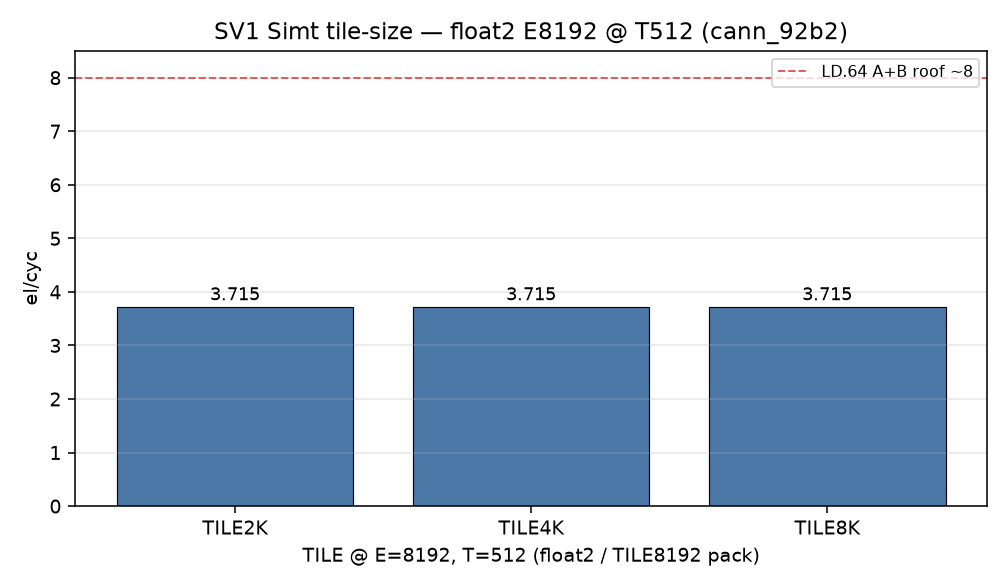
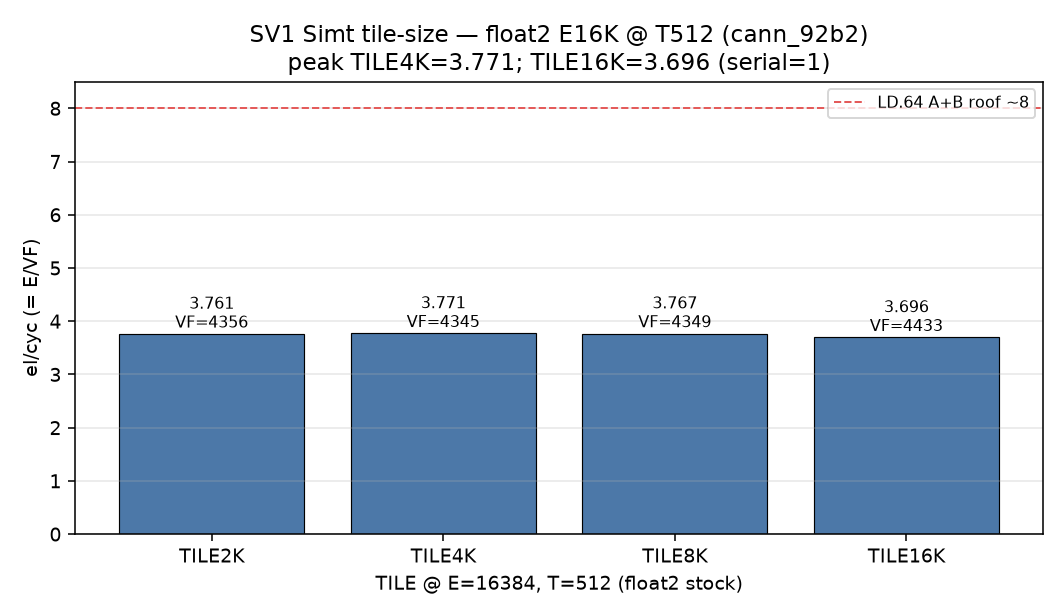
docs(sv1): §5.1 E16K float2 TILE ladder (distinct VF); diagnose E8192 flat
Lok: E must be 16K for tile cases; prior E8192 TILE@T512 flat 3.715 was
compiler unroll of serial tiles (not wrong launch). Promote E16K arms
(peak TILE4K=3.771 VF=4345); keep §5.2 TILE8192 T-dim; regen tile plot + MRF.

Changed region(s): [[0.0, 0.0306, 0.9841, 0.9796]]

diff --git a/benches/sv1/ANALYSIS.md b/benches/sv1/ANALYSIS.md
@@ -1,6 +1,6 @@
 # SV1 analysis — short-live stream eltwise (Simt + SIMD)
 
-**Date:** 2026-10-20 HKT · SoftLib fence×source / rooftop rewrite **2026-10-20** · float2 §5 fold **2026-10-20** · TILE8192 + TILE@T512 + real-asm MRF **2026-10-20** · **SOC:** Ascend950PR_9599 opsim · **CANN / PTOAS:** cann_92b2 / PTOAS nightly (`config.toml` pins) · **Primary stock Simt:** E=8192 **TILE8192** float2 (`max_vector_bits=64`, LDS.64-class; TILE=E) · multi-TILE @ T512 flat **3.715** · **Aligned e700041f E16K TILE matrix:** appendix-only
+**Date:** 2026-10-20 HKT · SoftLib fence×source / rooftop rewrite **2026-10-20** · float2 §5 fold **2026-10-20** · TILE8192 + TILE@T512 + real-asm MRF **2026-10-20** · **SOC:** Ascend950PR_9599 opsim · **CANN / PTOAS:** cann_92b2 / PTOAS nightly (`config.toml` pins) · **Primary stock Simt:** E=8192 **TILE8192** float2 (`max_vector_bits=64`, LDS.64-class; TILE=E) · §5.1 multi-TILE **E=16K** @ T512 (peak TILE4K **3.771**) · §5.2 TILE8192 T-dim peak T1024 **3.846** · **Aligned e700041f float4 E16K:** appendix-only
 
 This is the **only** SV1 analysis doc. Older NOTES / VERDICT / rooftop-32 writeups were removed.
 
@@ -73,29 +73,37 @@ From that same plot footer (authoritative mid-body IPC @ **E=16K TILE=8K**):
 
 ## 5. SIMT performance
 
-**Primary SoT — stock TILE8192 float2** (E=8192, TILE=E, `max_vector_bits=64`, LDS:FADD:STS = **256:256:128**, frag ≡ gmshared). §5.1 multi-TILE @ T512 is flat **3.715**. Opsim **2026-10-20**, cann_92b2, `ST_VF_MODE=simt-asc`. Data: `data/SUMMARY_sv1_float2_tile_t512.tsv` (§5.1) · `data/SHARED_VS_FRAGMENT_AB_GM_SHARED_FLOAT2.md` (§5.2/§8) · `data/harvest_float2_mrf.tsv` (MRF).
+**Primary SoT — stock float2** (`max_vector_bits=64`, LDS.64-class, frag ≡ gmshared, cann_92b2, `ST_VF_MODE=simt-asc`, opsim **2026-10-20**):
 
-**Lead framing (Lok):** LD.64 A+B theory ≈ **8 el/cyc**. Primary stock lands **T512 = 3.715** (~**46%** of ~8) and peaks at **T1024 = 3.846** (~**48%** of ~8). T2048 = 3.787 (above T512, below T1024).
+- **§5.1 tile ladder:** **E=16384**, T=512, TILE∈{2048,4096,8192,16384} — peak **TILE4096 = 3.771** el/cyc (~**47%** of LD.64 A+B ~8).
+- **§5.2 thread ladder:** **E=8192 TILE8192** (TILE=E; formerly "untiled"), T∈{64…2048} — hub T512 **3.715** / peak **T1024 = 3.846** (~**48%** of ~8).
 
-Aligned e700041f E16K TILE ladder (~2.40 @ TILE8K T512, float4-class LDS:FADD:STS ≈ 256:512:128) is **appendix-only** — different pack / config; do not cite as current stock.
+Data: `data/SUMMARY_sv1_float2_tile_t512.tsv` (§5.1 E16K) · `data/SHARED_VS_FRAGMENT_AB_GM_SHARED_FLOAT2.md` (§5.2/§8) · `data/harvest_float2_mrf.tsv` (MRF) · `data/NOTES_sv1_float2_tile_t512.md`.
 
-### 5.1 Tile-size @ T512 (E=8192 float2)
+**Lead framing (Lok):** LD.64 A+B theory ≈ **8 el/cyc**. Tile dim (E16K) peaks **3.771**; thread dim (TILE8192) peaks **3.846**.
 
-Primary multi-TILE ladder under stock float2 (`max_vector_bits=64`). Kernel `sv1t_tiled_add.py` (serial tiles × `Parallel(TILE)`, add-in-shared). **TILE8192** = TILE=E=8192 (formerly called "untiled"). Data: `data/SUMMARY_sv1_float2_tile_t512.tsv` · MRF: `data/harvest_float2_mrf.tsv` (llvm-objdump unique Rn × T × 4B / 128 KB).
+Aligned e700041f E16K TILE ladder (~2.40 @ TILE8K T512, float4-class LDS:FADD:STS ≈ 256:512:128) is **appendix-only** — different pack; do not cite as current stock.
 
-| TILE | VF_cyc | el/cyc | % of LD.64 A+B (~8) | wall µs | MRF live (KB / %) |
-|-----:|-------:|-------:|--------------------:|--------:|------------------:|
-| 2048 | 2205 | **3.715** | **46%** | 1.23 | **22.0 / 17.2%** (11×512×4) |
-| 4096 | 2205 | **3.715** | **46%** | 1.23 | **22.0 / 17.2%** |
-| **8192** (TILE8192) | **2205** | **3.715** | **46%** | **1.23** | **22.0 / 17.2%** |
+### 5.1 Tile-size @ T512 (E=16384 float2)
 
-Instr mix identical (LDS:FADD:STS = **256:256:128**). **Flat vs TILE** — under float2 E8192@T512, tile size does not move el/cyc or MRF. TILE8192@T512 matches the prior Parallel(E) hub **3.715** / VF **2205**.
+**E must be 16K for the multi-TILE ladder** (Lok). Kernel `sv1t_tiled_add.py`: `for t in serial(E//TILE): Parallel(TILE)` inside one SimtVF, add-in-shared. **el/cyc = E/VF** (always 16384/VF), not TILE/VF. MRF = llvm-objdump unique Rn × T × 4B / 128 KB.
+
+| TILE | serial | VF_cyc | el/cyc | % of LD.64 A+B (~8) | wall µs | LDS:FADD:STS | IADD | BRANCH | MRF live (KB / %) |
+|-----:|-------:|-------:|-------:|--------------------:|--------:|-------------:|-----:|-------:|------------------:|
+| 2048 | 8 | 4356 | **3.761** | **47%** | 2.42 | 512:512:256 | 912 | 128 | **26.0 / 20.3%** (13×512×4) |
+| **4096** | **4** | **4345** | **3.771** | **47%** | **2.41** | 512:512:256 | 848 | 64 | **26.0 / 20.3%** |
+| 8192 | 2 | 4349 | **3.767** | **47%** | 2.42 | 512:512:256 | 816 | 32 | **26.0 / 20.3%** |
+| 16384 | 1 | 4433 | **3.696** | **46%** | 2.46 | 512:512:256 | 768 | 0 | **22.0 / 17.2%** (11×512×4) |
 
 ![Tile vs el/cyc](plots/sv1_tile_vs_vf_el_instr.png)
 
-**Compare (same pack, not §5.1 primary):** E=16384 TILE∈{2K,4K,8K,16K}@T512 → el/cyc **3.761 / 3.771 / 3.767 / 3.696**; MRF **26.0 KB / 20.3%** (TILE≤8K) or **22.0 / 17.2%** (TILE16K). See `NOTES_sv1_float2_tile_t512.md`. Aligned e700041f float4-class E16K TILE (~2.40) remains appendix-only.
+**Point:** tile size **does** move VF / el/cyc at E=16K. BRANCH/ISETP scale with serial trip count (128→64→32→0); peak el/cyc at **TILE4096 = 3.771**; single-tile TILE16K is worst (**3.696**, VF 4433). LDS/FADD/STS stay fixed (same E); overhead shows in IADD + BRANCH.
+
+**Why a prior E8192 "tile ladder" looked flat (do not use as §5.1):** E=8192 TILE∈{2048,4096,8192} all reported VF=2205 / el=3.715 / identical `LDS:FADD:STS:IADD=256:256:128:384` and **no** BRANCH. That was **not** a wrong E=TILE launch — TIR had correct `range(4/2/1)×Parallel(TILE)` and distinct source md5s. The compiler **fully unrolled** the small serial trip counts, erasing tile-loop overhead in opsim. E8192 TILE=E remains valid as the **§5.2 TILE8192** T-dim hub only. Details: `data/NOTES_sv1_float2_tile_t512.md`.
 
 ### 5.2 Thread-dim performance (E=8192 TILE8192 float2)
+
+**TILE8192** = E=8192, TILE=E (Parallel(whole E) / single serial trip). This is the thread-dim SoT — **not** a multi-TILE ladder.
 
 | Case | VF_cyc | el/cyc | % of LD.64 A+B (~8) | wall µs | MRF live (KB / %) |
 |------|-------:|-------:|--------------------:|--------:|------------------:|
@@ -112,11 +120,11 @@ Instr mix identical (LDS:FADD:STS = **256:256:128**). **Flat vs TILE** — under
 
 **1R+1W footnote:** prior pack docs also used **1R+1W @ 128 B each → 16 el/cyc**. Against that roof: T1024 ≈ **24%**, T512 ≈ **23%**. Lead framing for Simt stock stays **~8**; keep **16** only as this footnote.
 
-**Forward (not run):** later try **T128/T256 fully unroll** and let **ccec** schedule, then compare vs hand/manual — do not treat as SoT until measured. Multi-TILE float2 @ fixed T512 is §5.1 (flat **3.715**).
+**Forward (not run):** later try **T128/T256 fully unroll** and let **ccec** schedule, then compare vs hand/manual — do not treat as SoT until measured. Multi-TILE float2 @ fixed T512 is **§5.1 E=16K** (peak **3.771**, not flat).
 
 ## 6. SoftLib handwritten Simt rooftop analysis
 
-**Date:** SoftLib rooftop rewrite **2026-10-20**. Stock Simt primary is **E8192 TILE8192 float2**: hub **T512 = 3.715** (~46% of LD.64 A+B ~8) / peak **T1024 = 3.846** (~48%) from §5. SoftLib below is the handwritten Simt rooftop story: width (LDS.32 vs LDS.64), schedule (1-in first), then dual-input %rooftop + full fence×source table.
+**Date:** SoftLib rooftop rewrite **2026-10-20**. Stock Simt: §5.1 **E16K TILE@T512** peak **3.771**; §5.2 **TILE8192** hub **T512 = 3.715** / peak **T1024 = 3.846** (~48%) from §5. SoftLib below is the handwritten Simt rooftop story: width (LDS.32 vs LDS.64), schedule (1-in first), then dual-input %rooftop + full fence×source table.
 
 ### 6.1 LDS.32 vs LDS.64
 
@@ -216,7 +224,7 @@ Fence-table **%ser** for A+B remains **72.2%** of **10.67**. SoT A+B b32: `/work
 
 - **SIMD** simple VL=64 schedule @ TILE8K: **29.26** el/cyc (~**66%** of theory rooftop ~44; mid-body ~34 / ~**78%**). A simple load→add→store does **28+**.
 - **Simt rooftop** depends on **LDS.32 vs LDS.64**. Need **≥256 threads** for LDS/STS outstanding, and **split LD/ST stages** (LDS.32 + STS.32) for instruction schedule to approach the SoftLib ceiling. Serial roofs: 1-in/1-out **16** (128 B/c R + 128 B/c W); A+B **10.667**.
-- **Default lowering** (stock TILE8192 float2 LDS.64-class A+B, E8192; MRF T512 **22 KB / 17.2%**): hub **T512 = 3.715** (~**46%** of LD.64 A+B ~8) → **~7.9×** vs SIMD 29.26; peak **T1024 = 3.846** (~**48%**) → **~7.6×** vs SIMD 29.26.
+- **Default lowering** (stock float2 LDS.64-class A+B): §5.2 **TILE8192** hub **T512 = 3.715** (~**46%** of ~8; MRF **22 KB / 17.2%**) → **~7.9×** vs SIMD 29.26; peak **T1024 = 3.846** (~**48%**) → **~7.6×**. §5.1 **E16K** tile peak **TILE4K = 3.771** (MRF **26 KB / 20.3%**) → **~7.8×** vs SIMD 29.26 (same E=16K as SIMD TILE8K hub).
 - **Handcraft best so far** (SoftLib A+B LDS.b32 T512 `loadall_barrier`): **7.42** → **~69.5%** of serial **10.667** (fence **%ser ~72%** of 10.67) → remaining gap **~3.9×** vs SIMD 29.26, which **matches the input UB BW difference** (256R+256R vs 128R).
 
 **MRF = 128 KB.** Live = **unique Rn × T × 4 B** from `llvm-objdump -d` opsim `aicore_binary.o` (`simt_vf` body) — **not** the A+B+C tile footprint estimate (96 KB / 75%). Stock TILE8192 float2: **11 unique Rn** → T512 **22.0 KB / 17.2%**, T1024 **44.0 KB / 34.4%**. SoftLib A+B LDS.b32 T512: **52 → 104.0 KB / 81.2%**. SIMD TILE8K: **N/A** (vector/UB path). Data: `data/harvest_float2_mrf.tsv` (+ prior SoftLib `/tmp/pr7_mrf_harvest_20261020/`).
@@ -225,7 +233,8 @@ Fence-table **%ser** for A+B remains **72.2%** of **10.67**. SoT A+B b32: `/work
 
 | Mapping / schedule | el/cyc | Roof | Rooftop % | vs SIMD 29.26 | MRF live (KB / %) |
 |--------------------|-------:|------|----------:|--------------:|------------------:|
-| Stock Simt LDS.64 — E8192 TILE8192 float2 **T512** (§5.1) | **3.715** | LD.64 A+B **~8** | **~46%** | **~7.9×** | **22.0 / 17.2%** (11×512×4) |
+| Stock Simt LDS.64 — E16K TILE4K@T512 peak (§5.1) | **3.771** | LD.64 A+B **~8** | **~47%** | **~7.8×** | **26.0 / 20.3%** (13×512×4) |
+| Stock Simt LDS.64 — E8192 TILE8192 float2 **T512** (§5.2) | **3.715** | LD.64 A+B **~8** | **~46%** | **~7.9×** | **22.0 / 17.2%** (11×512×4) |
 | Stock Simt LDS.64 — E8192 TILE8192 float2 **T1024 peak** (§5.2) | **3.846** | LD.64 A+B **~8** | **~48%** | **~7.6×** | **44.0 / 34.4%** (11×1024×4) |
 | SoftLib A+B LDS.b64 — T256 `loadall_barrier` | **4.82** | LD.64 A+B **~8** | **~60%** | **~6.1×** | **75.0 / 58.6%** (75×256×4) |
 | SoftLib A+B LDS.b32 — T512 `loadall_barrier` | **7.42** | serial **10.667** | **~69.5%** | **~3.9×** | **104.0 / 81.2%** (52×512×4) |
@@ -236,7 +245,7 @@ SoftLib phase-sep A+B closes most of the Simt schedule gap vs stock; remaining S
 
 ## 8. Shared vs fragment — direct GM→shared only (no S-MEM staging tower)
 
-**Scope:** §8 is the same layout A/B that feeds **§5.2** — **E=8192 TILE8192 float2**, frag ≡ gmshared. §5.1 multi-TILE uses the tiled kernel under the same float2 pack (flat 3.715 @ T512).
+**Scope:** §8 is the same layout A/B that feeds **§5.2** — **E=8192 TILE8192 float2**, frag ≡ gmshared. §5.1 multi-TILE is **E=16384** under the same float2 pack (peak TILE4K **3.771**; not flat).
 
 **S-MEM tower removed.** The old shared arm used `t1/t2/t3 = alloc_shared` staging (shared→shared copies) and looked **−37%/−50%** vs fragment (`data/SHARED_VS_FRAGMENT_AB.md`: T512 frag **2.406** / shared-tower **1.198**) — that pattern is **gone**. No shared→fragment `T.copy` either. **Do not cite tower −37%/−50% as the current finding.**
 
@@ -266,15 +275,15 @@ Instr mix identical (`SIMT_LDS/STS/FADD/IADD` = 256/128/256/384). TILE8192 float
 |-----|-------|
 | SOC / opsim | Ascend950PR_9599 |
 | CANN | cann_92b2 (`config.toml`: `cann_92b2/9.2.0-beta.2`) |
-| Primary stock Simt | **E8192 TILE8192 float2** (frag ≡ gmshared; §5.1 multi-TILE flat 3.715), opsim **2026-10-20** |
+| Primary stock Simt | **float2** frag ≡ gmshared; §5.1 **E16K TILE@T512** peak **3.771**; §5.2 **TILE8192** peak T1024 **3.846**, opsim **2026-10-20** |
 | TileLang tip (aligned appendix matrix) | **e700041f** (`tilelang-pto-isa-st`) — appendix-only for Simt |
 | PTOAS | nightly (`config.toml`: `0.67@1b36b6f…`) |
 | Date | **2026-10-20 HKT** |
 
 ### Artifacts
 
-- `data/` — **`SUMMARY_sv1_float2_tile_t512.tsv`** (+ `NOTES_…`; **§5.1 multi-TILE**), **`harvest_float2_mrf.tsv`** (real-asm MRF), **`SHARED_VS_FRAGMENT_AB_GM_SHARED_FLOAT2.md`** (+ `.tsv`/`.json`; **§5.2 / §8**), **`SUMMARY_sv1d_aligned_e16k_tile8k.tsv`** (+ `.json`, `NOTES_…`; primary SIMD §4 TILE@E16K), SoftLib fence/BW reports under `/workspace/st_out_cce_*`, appendix `SUMMARY_sv1_aligned_e16k_tile8k.tsv` (+ `NOTES_sv1_aligned_e16k_tile8k.md`; **aligned E16K TILE — not §5 primary**), appendix `SUMMARY_sv1d_size_ladder.tsv`, legacy tower `SHARED_VS_FRAGMENT_AB.md` (staging-only), legacy `SUMMARY_sv1_simt_tile16k.tsv` / `SUMMARY_sv1_simt_T_dim_rooftop.tsv`
-- `plots/` — **`sv1_tile_vs_vf_el_instr.png`** (**E8192 float2 TILE@T512** primary §5.1), **`sv1_thread_vs_ipc_el.png`** (**TILE8192 T-dim** primary §5.2), **`sv1d_e16k_tile8k_ex_ipc_30cyc.png`** (SIMD §4 SoT), appendix: aligned Body4 / legacy, `sv1_simt_e16k_tile8k_body4_ex_ipc_30cyc.png` (aligned Body4), legacy whole-E plots / ILP timeline
+- `data/` — **`SUMMARY_sv1_float2_tile_t512.tsv`** (+ `NOTES_…`; **§5.1 E16K multi-TILE**), **`harvest_float2_mrf.tsv`** (real-asm MRF), **`SHARED_VS_FRAGMENT_AB_GM_SHARED_FLOAT2.md`** (+ `.tsv`/`.json`; **§5.2 / §8**), **`SUMMARY_sv1d_aligned_e16k_tile8k.tsv`** (+ `.json`, `NOTES_…`; primary SIMD §4 TILE@E16K), SoftLib fence/BW reports under `/workspace/st_out_cce_*`, appendix `SUMMARY_sv1_aligned_e16k_tile8k.tsv` (+ `NOTES_sv1_aligned_e16k_tile8k.md`; **aligned E16K TILE — not §5 primary**), appendix `SUMMARY_sv1d_size_ladder.tsv`, legacy tower `SHARED_VS_FRAGMENT_AB.md` (staging-only), legacy `SUMMARY_sv1_simt_tile16k.tsv` / `SUMMARY_sv1_simt_T_dim_rooftop.tsv`
+- `plots/` — **`sv1_tile_vs_vf_el_instr.png`** (**E16K float2 TILE@T512** primary §5.1), **`sv1_thread_vs_ipc_el.png`** (**TILE8192 T-dim** primary §5.2), **`sv1d_e16k_tile8k_ex_ipc_30cyc.png`** (SIMD §4 SoT), appendix: aligned Body4 / legacy, `sv1_simt_e16k_tile8k_body4_ex_ipc_30cyc.png` (aligned Body4), legacy whole-E plots / ILP timeline
 - SoftLib CCE — `/workspace/st_out_cce_vadds_const/reports/VADDS_CONST_B32_OPSIM.md`, `VADDS_CONST_T512_1024_OPSIM.md`; schedule dig `/workspace/st_out_cce_vadds_const_sched/reports/VERDICT.md`; **PURE LD32/LD64 BW** `/workspace/st_out_cce_lds_bw_confirm/reports/LD32_LD64_BW_CONFIRM.md`
 - SoftLib LDS BW — `/workspace/st_out_cce_lds_bw_confirm/reports/LD32_LD64_BW_CONFIRM.md` (+ `COMBINED_LDS_PORT_AND_MI_OFF.md`)
 - Opsim OUT (pto-b10) — float2 TILE@T512 `/tmp/sv1_float2_tile_t512_20261020` · float2 T-dim `/tmp/sv1_float2_tdim_E8192_20261020` · appendix aligned Simt `/tmp/sv1_aligned_e16k_tile8k_20261017/` · SIMD tiled `/tmp/sv1d_aligned_e16k_tile8k_20261017/`
@@ -282,6 +291,10 @@ Instr mix identical (`SIMT_LDS/STS/FADD/IADD` = 256/128/256/384). TILE8192 float
 ### Weekly gate
 
 `scripts/regression/oneshot_sv1_e8192_t128_t512.sh` — **E=8192**, **T=128** + **T=512**, `ST_VF_MODE=simt-asc`, stock schedule only. (Does not yet cover **T1024** peak — extend when gating peak SoT.)
+
+### Appendix — E8192 TILE@T512 float2 looked flat (not §5.1)
+
+E=8192 TILE∈{2048,4096,8192}@T512 all VF=**2205** / el=**3.715** / identical instr mix. Launch was correct (distinct TIR serial extents); compiler unrolled serial tiles. **Do not** present E8192 as the multi-TILE ladder — use §5.1 E=16K. E8192 TILE=E stays §5.2 **TILE8192**.
 
 ### Appendix — aligned e700041f E16K TILE (not primary)
 

diff --git a/benches/sv1/data/NOTES_sv1_float2_tile_t512.md b/benches/sv1/data/NOTES_sv1_float2_tile_t512.md
@@ -1,30 +1,29 @@
-# SV1 float2 multi-TILE @ T=512 (2026-10-20 HKT)
+# SV1 float2 multi-TILE @ T=512 — E=16384 primary (2026-10-20)
 
-**Pins:** cann_92b2 · Ascend950PR_9599 · \ST_VF_MODE=simt-asc\ · stock float2 (\max_vector_bits=64\, LDS.64-class) · kernel \sv1t_tiled_add.py\ (serial tiles × Parallel(TILE), add-in-shared).
+Pins: cann_92b2 · Ascend950PR_9599 · `ST_VF_MODE=simt-asc` · stock float2 (`max_vector_bits=64`) · kernel `sv1t_tiled_add.py` (serial tiles × Parallel(TILE), add-in-shared).
 
-**Naming:** **TILE8192** = E=8192, TILE=E (formerly called "untiled" / Parallel(E)). Same config as prior stream point T512=**3.715** / VF=**2205**.
+## §5.1 primary = E=16384 TILE∈{2048,4096,8192,16384} @ T=512
 
-## §5.1 primary — E=8192 TILE @ T=512
+| TILE | serial | VF_cyc | el/cyc (=E/VF) | IADD | BRANCH | MRF live |
+|-----:|-------:|-------:|---------------:|-----:|-------:|----------|
+| 2048 | 8 | 4356 | 3.761 | 912 | 128 | 26.0 KB / 20.3% |
+| 4096 | 4 | 4345 | **3.771** | 848 | 64 | 26.0 / 20.3% |
+| 8192 | 2 | 4349 | 3.767 | 816 | 32 | 26.0 / 20.3% |
+| 16384 | 1 | 4433 | 3.696 | 768 | 0 | 22.0 / 17.2% |
 
-| TILE | VF_cyc | el/cyc | wall µs | LDS:FADD:STS | MRF live (unique Rn × T × 4B) |
-|-----:|-------:|-------:|--------:|-------------:|------------------------------:|
-| 2048 | 2205 | **3.715** | 1.23 | 256:256:128 | **11 × 512 × 4 = 22.0 KB / 17.2%** |
-| 4096 | 2205 | **3.715** | 1.23 | 256:256:128 | **11 × 512 × 4 = 22.0 KB / 17.2%** |
-| **8192** (TILE8192) | **2205** | **3.715** | **1.23** | 256:256:128 | **22.0 KB / 17.2%** |
+el/cyc always **E/VF** (16384/VF), never TILE/VF. Peak tile hub = **TILE4096 = 3.771**.
 
-Flat vs TILE — under float2 E8192@T512, tile size does not move el/cyc or MRF.
+## Why E8192 TILE ladder looked flat (not used as §5.1)
 
-## Compare — E=16384 TILE @ T=512 (same float2 pack)
+Prior primary wrongly used E=8192 TILE∈{2048,4096,8192} — all VF=2205 / el=3.715.
+**Not a launch bug:** TIR shows correct `range(4)×Parallel(2048)` / `range(2)×Parallel(4096)` / `range(1)×Parallel(8192)`; source md5s differ; tags carry correct E/TILE.
+**Root cause:** at E=8192 the compiler **fully unrolls** the small serial tile trip counts → identical opsim mix `LDS:FADD:STS:IADD = 256:256:128:384` and **no** BRANCH/ISETP → identical VF.
+At E=16384, BRANCH/ISETP scale with serial trip count and VF **does** move (4356→4345→4349→4433).
 
-| TILE | VF_cyc | el/cyc | MRF live |
-|-----:|-------:|-------:|---------:|
-| 2048 | 4356 | 3.761 | 13×512×4 = 26.0 KB / 20.3% |
-| 4096 | 4345 | 3.771 | 26.0 KB / 20.3% |
-| 8192 | 4349 | 3.767 | 26.0 KB / 20.3% |
-| 16384 | 4433 | 3.696 | 11×512×4 = 22.0 KB / 17.2% |
+E8192 TILE=E (**TILE8192**) remains the §5.2 T-dim hub (peak T1024=3.846) — that is Parallel(E)/TILE=E, **not** a multi-TILE ladder.
 
-## MRF method
+## Artifacts
 
-\llvm-objdump -d\ opsim \icore_binary.o\ · unique \R\\d+\ in \simt_vf\ / \ector_simt_entry\ body · KB = n × T × 4 / 1024 · % of **128 KB** MRF. SoT: \harvest_float2_mrf.tsv\. SoftLib A+B LDS.b32 T512 remains **52 → 104 KB / 81.2%** (prior harvest).
-
-OUT: \/tmp/sv1_float2_tile_t512_20261020/\
+- Opsim: `/tmp/sv1_float2_e16k_tile_t512_20261020/` (promoted from prior mixed OUT; no re-opsim needed — E16K arms already PASS)
+- Prior mixed (E8192+E16K): `/tmp/sv1_float2_tile_t512_20261020/`
+- MRF: `harvest_float2_mrf.tsv` (llvm-objdump unique Rn × T × 4B / 128 KB)
